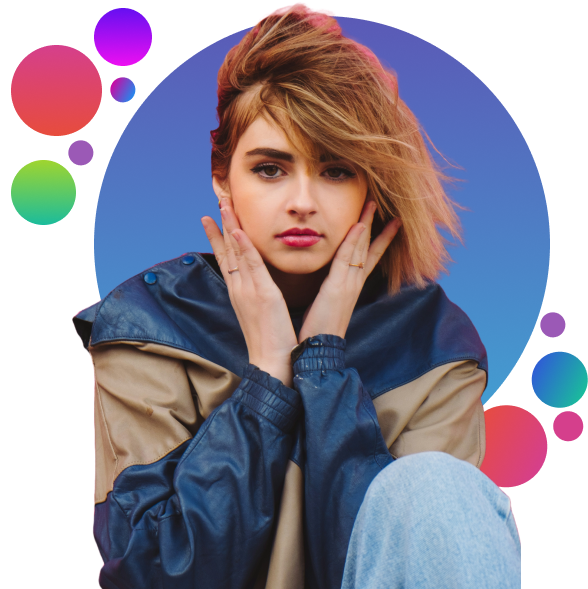
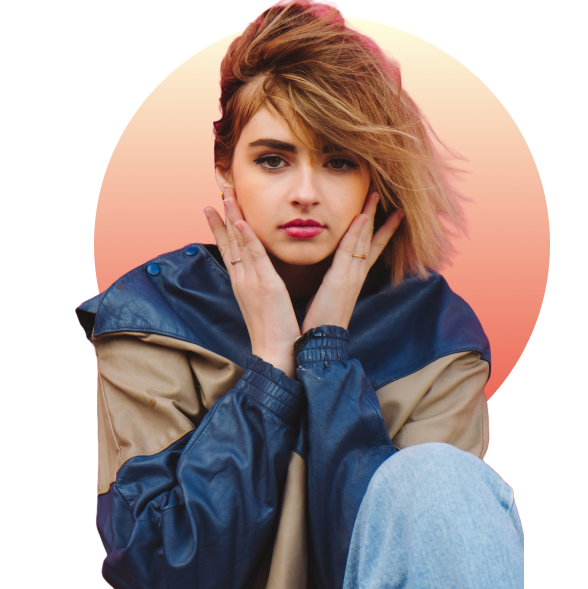
work in progress

diff --git a/src/section/landing/hero.tsx b/src/section/landing/hero.tsx
@@ -1,79 +1,104 @@
-'use client';
-import React from 'react';
-import { Carousel } from 'react-responsive-carousel';
-import { motion } from 'framer-motion';
-
-import 'react-responsive-carousel/lib/styles/carousel.min.css'; // requires a loader
+import React, { useState, useEffect } from 'react';
+import { motion, AnimatePresence, Variants } from 'framer-motion';
 
 const HeroSection = () => {
-  return (
-    <div className='relative m-4 mt-5 overflow-hidden rounded-3xl bg-pink-50 bg-gradient-to-r md:m-10 md:mt-5  '>
-      <Carousel
-        showStatus={false}
-        showThumbs={false}
-        infiniteLoop={true}
-        autoPlay={true}
-        interval={3000}
-        showArrows={false}
-      >
-        <motion.div
-          initial={{ y: -900 }}
-          animate={{ y: 0 }}
-          className='mx-auto max-w-7xl px-6 py-10  lg:grid lg:grid-cols-2 lg:gap-x-10 lg:px-8 lg:py-16'
-        >
-          <motion.div className='mx-auto flex max-w-2xl flex-col items-start justify-start lg:mx-0'>
-            <motion.h1 className='mt-2 max-w-xl text-left text-4xl font-bold tracking-tight text-gray-700  md:text-7xl'>
-              Exclusive Collection for Everyone
-            </motion.h1>
-            <motion.p className='mt-6 text-left text-xs text-gray-600  md:text-lg'>
-              Discover the latest trends in fashion and explore our exclusive
-              collection curated just for you. From timeless classics to the
-              hottest styles of the season, we have something for every
-              fashionista.
-            </motion.p>
-            <motion.div className='mt-10 flex items-center gap-x-6'>
-              <motion.a
-                href='#'
-                className='bg-primary focus:outline-primary rounded-md px-3.5 py-2.5 text-sm font-semibold  text-white shadow-sm  hover:bg-indigo-500 focus:outline focus:outline-2 focus:outline-offset-2'
-              >
-                Explore Now
-              </motion.a>
-            </motion.div>
-          </motion.div>
-          <motion.div className='mt-16 flex items-start justify-center md:mt-0'>
-            <motion.img src='/images/girl-model.png' alt='Fashion Model' />
-          </motion.div>
-        </motion.div>
+  const [slideIndex, setSlideIndex] = useState(0);
 
+  useEffect(() => {
+    const intervalId = setInterval(() => {
+      setSlideIndex((prevIndex) => (prevIndex + 1) % 2); // Change the number based on the number of slides
+    }, 5000); // Change the interval duration as needed
+
+    return () => clearInterval(intervalId);
+  }, []);
+
+  const slides = [
+    {
+      title: 'Exclusive Collection for Everyone',
+      text: 'Discover the latest trends in fashion and explore our exclusive collection curated just for you. From timeless classics to the hottest styles of the season, we have something for every fashionista.',
+      image: '/images/girl-model.png',
+    },
+    {
+      title: 'Another Exclusive Collection',
+      text: 'Explore another amazing collection with the latest fashion trends. Our curated selection is designed to suit every style, ensuring you stay fashionable all year round.',
+      image: '/images/girl-model-1.png',
+    },
+  ];
+
+  const currentSlide = slides[slideIndex];
+
+  const slideAnimation: Variants = {
+    initial: { opacity: 0 },
+    animate: { opacity: 1 },
+    exit: { opacity: 0 },
+  };
+
+  const textAnimation: Variants = {
+    initial: { opacity: 0, x: -50 },
+    animate: { opacity: 1, x: 0 },
+    exit: { opacity: 0, x: 50 },
+  };
+
+  const imageAnimation: Variants = {
+    initial: { opacity: 0, y: -50 },
+    animate: { opacity: 1, y: 0 },
+    exit: { opacity: 0, y: 50 },
+  };
+
+  return (
+    <div className='relative m-4 mt-5 overflow-hidden rounded-3xl bg-orange-100 bg-gradient-to-r md:m-10 md:mt-5'>
+      <AnimatePresence>
         <motion.div
-          initial={{ y: -900 }}
-          animate={{ y: 0 }}
-          className='mx-auto max-w-7xl px-6 py-10  lg:grid lg:grid-cols-2 lg:gap-x-10 lg:px-8 lg:py-16'
+          key={slideIndex}
+          variants={slideAnimation}
+          initial='initial'
+          animate='animate'
+          exit='exit'
+          className='mx-auto max-w-7xl px-6 py-10 lg:grid lg:grid-cols-2 lg:gap-x-10 lg:px-8 lg:py-16'
         >
           <motion.div className='mx-auto flex max-w-2xl flex-col items-start justify-start lg:mx-0'>
-            <motion.h1 className='mt-2 max-w-xl text-left text-4xl font-bold tracking-tight text-gray-700  md:text-7xl'>
-              Exclusive Collection for Everyone
+            <motion.h1
+              key={currentSlide.title}
+              className='mt-2 max-w-xl text-left text-4xl font-bold tracking-tight text-gray-700 md:text-7xl'
+              variants={textAnimation}
+              initial={{ opacity: 0, x: -50 }}
+              animate={{ opacity: 1, x: 0 }}
+              exit={{ opacity: 0, x: 50 }}
+            >
+              {currentSlide.title}
             </motion.h1>
-            <motion.p className='mt-6 text-left text-xs text-gray-600  md:text-lg'>
-              Discover the latest trends in fashion and explore our exclusive
-              collection curated just for you. From timeless classics to the
-              hottest styles of the season, we have something for every
-              fashionista.
+            <motion.p
+              key={currentSlide.text}
+              className='mt-6 text-left text-xs text-gray-600 md:text-lg'
+              variants={textAnimation}
+              initial={{ opacity: 0, x: -50 }}
+              animate={{ opacity: 1, x: 0 }}
+              exit={{ opacity: 0, x: 50 }}
+            >
+              {currentSlide.text}
             </motion.p>
             <motion.div className='mt-10 flex items-center gap-x-6'>
               <motion.a
                 href='#'
-                className='bg-primary focus:outline-primary rounded-md px-3.5 py-2.5 text-sm font-semibold  text-white shadow-sm  hover:bg-indigo-500 focus:outline focus:outline-2 focus:outline-offset-2'
+                className='bg-primary focus:outline-primary rounded-md px-5 py-4 text-xl font-semibold text-white shadow-sm hover:bg-indigo-500 focus:outline focus:outline-2 focus:outline-offset-2'
               >
                 Explore Now
               </motion.a>
             </motion.div>
           </motion.div>
           <motion.div className='mt-16 flex items-start justify-center md:mt-0'>
-            <motion.img src='/images/girl-model-1.png' alt='Fashion Model' />
+            <motion.img
+              key={currentSlide.image}
+              src={currentSlide.image}
+              alt='Fashion Model'
+              variants={imageAnimation}
+              initial={{ opacity: 0, y: -50 }}
+              animate={{ opacity: 1, y: 0 }}
+              exit={{ opacity: 0, y: 50 }}
+            />
           </motion.div>
         </motion.div>
-      </Carousel>
+      </AnimatePresence>
     </div>
   );
 };

diff --git a/src/section/common/sale-banner.tsx b/src/section/common/sale-banner.tsx
@@ -9,7 +9,7 @@ const getEndTime = () => {
 
 const SaleBanner = ({
   text = 'Black Friday Sale Get 50% Discount',
-  backgroundImage = 'url("https://images.unsplash.com/photo-1499971442178-8c10fdf5f6ac?q=80&w=1982&auto=format&fit=crop&ixlib=rb-4.0.3&ixid=M3wxMjA3fDB8MHxwaG90by1wYWdlfHx8fGVufDB8fHx8fA%3D%3D")',
+  backgroundImage = 'url("https://images.unsplash.com/photo-1535478044878-3ed83d5456ef?q=80&w=2091&auto=format&fit=crop&ixlib=rb-4.0.3&ixid=M3wxMjA3fDB8MHxwaG90by1wYWdlfHx8fGVufDB8fHx8fA%3D%3D")',
 }) => {
   const endTime = getEndTime();
 
